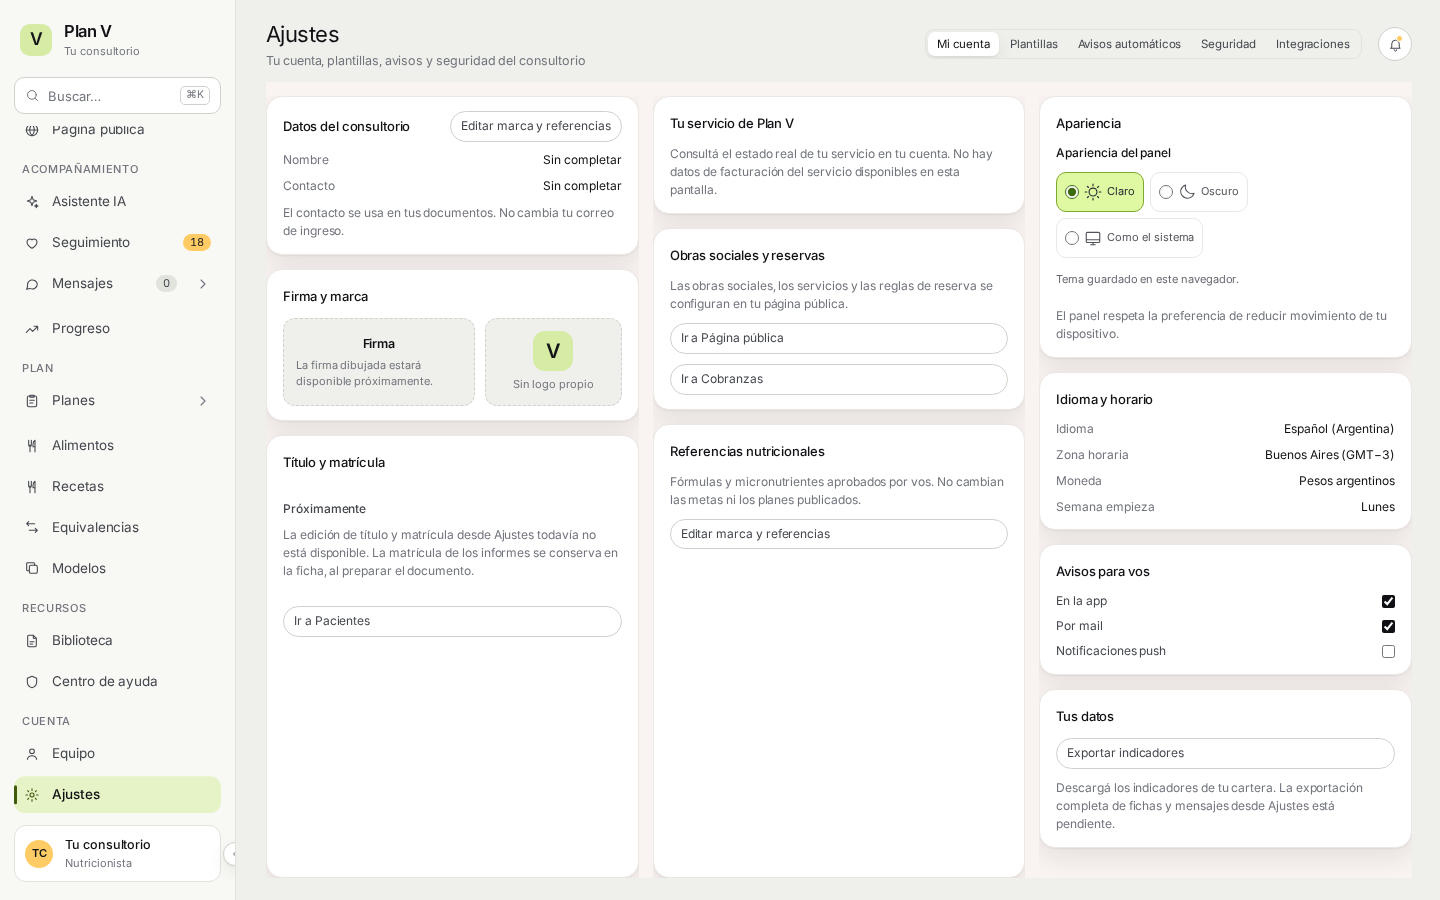
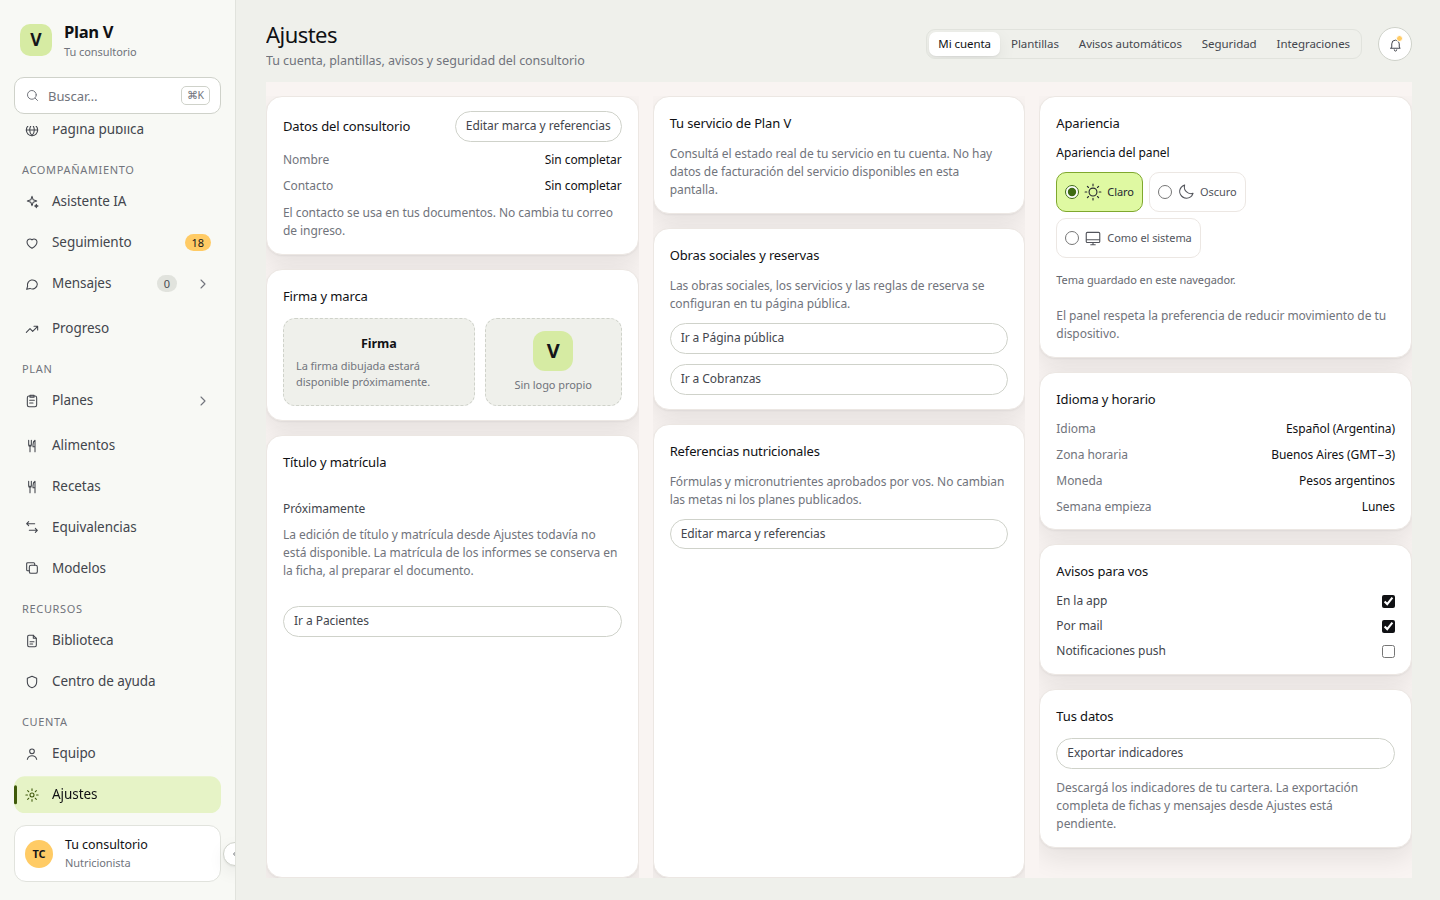
docs(equipo-ajustes): informe, capturas y bitácora del slice v29
Queda en borrador hasta el ok visual. Sin merge y sin migración.

diff --git a/docs/panel-nutri-rediseno/equipo-ajustes-v29.md b/docs/panel-nutri-rediseno/equipo-ajustes-v29.md
@@ -1,0 +1,43 @@
+# Equipo y Ajustes v29
+
+[PR #192 en borrador](https://github.com/Facu42/plan-v/pull/192). Código `0649e18`. Rama `cursor/equipo-ajustes-v29-70bc`, desde el avance de Codex en `work/equipo-ajustes-v29` (`4e52a34`) sobre main `62a8e48` (#191). **Sin merge, sin publicación y sin migraciones.**
+
+Equipo y Ajustes usan el armazón que ya está en main, la letra Inter y los temas claro y oscuro. El menú dice Ajustes, no Configuración. Siguen andando `/crm/equipo`, `/crm/ajustes` y los enlaces anteriores `?modulo=equipo` y `?modulo=configuracion`.
+
+## Qué se ve
+
+Equipo: título con la cantidad real de personas, pestañas Integrantes, Permisos y Registro de accesos, e Invitar a alguien. La tabla muestra persona, rol, pacientes que ve, último ingreso, dos pasos y estado. En el escritorio las seis columnas entran en la tarjeta. En el celular la tabla se desplaza para el costado, sin agrandar la página.
+
+Los integrantes salen de los consultorios, la recepción y las profesionales que ya devuelve la API. Último ingreso y dos pasos dicen «Sin información»: esa API no los trae. Invitar a recepción prepara el código real y aclara que no se manda un mail. Invitar a una nutricionista usa la invitación por correo que ya existía. Contador no se puede invitar. Quitar el acceso de recepción usa la revocación que ya existía. Pausar, reenviar y cerrar sesiones no se simulan.
+
+Ajustes: cinco pestañas (Mi cuenta, Plantillas, Avisos automáticos, Seguridad e Integraciones). Mi cuenta muestra el nombre y el contacto reales del consultorio, el tema y los avisos de la profesional. Google Calendar y Mercado Pago muestran el estado real de la conexión. No hay plan «Fundadora», ni «48 pacientes», ni cifras del boceto.
+
+## Qué queda vacío o en «Próximamente»
+
+- Permisos por módulo y registro de accesos (fichas, cambios e ingresos). Es el paquete C. La matriz se ve deshabilitada y no guarda nada.
+- Actividad del equipo, sesiones, historial de ingresos y respaldos.
+- Plantillas y certificados. No hay tablas ni alta.
+- Avisos automáticos por evento y reglas de regreso. Las preferencias de la profesional sí se guardan.
+- Mail con Brevo. El texto dice que se activa cuando se conecte; la conexión no está.
+- Firma dibujada, título y matrícula editables desde Ajustes, y la exportación completa de fichas.
+- Dos pasos del equipo. El estado de la cuenta se consulta; en el demo dice que no está disponible. No se prende ni se apaga desde esta pantalla.
+
+## Evidencia
+
+- [Capturas 1440 y 390, claro y oscuro](../screenshots/equipo-ajustes/): Integrantes, Permisos, Mi cuenta y Seguridad.
+- Suite con Node 22 y `npm test -- --maxWorkers=2`: **3.403 aprobadas y dos omitidas, 541 archivos** (183 s).
+- Tipos (`npm run check`), compilación, secretos y `panel:v29:check` en verde. La compilación conserva el aviso de bundles grandes.
+- `panel:contrato:v29`: **en verde**, claro y oscuro, para armazón, Seguimiento, Progreso, Asistente, Alimentos, Biblioteca y Planes. Ese contrato no mide Equipo ni Ajustes. Esas dos pantallas las cubre el recorrido de abajo.
+- Recorrido de punta a punta del slice: **4 aprobados** (25 s). Pestañas, invitación con código y con error, vacío sin consultorio, recepción que no consulta organizaciones, alias de Configuración, preferencias reales, enlaces, Inter, y sin desborde a 1440 y 390 en claro y oscuro.
+- Prueba de fuego: sacar una letra del encabezado «Dos pasos» hizo fallar la prueba de Equipo. Se restauró el texto y la prueba volvió a verde.
+
+## Regression Guard · paso 10
+
+- **Flujos críticos:** menú Equipo/Ajustes y enlaces anteriores, pestañas, invitación de recepción (éxito y error), preferencias de avisos de la profesional, tema claro/oscuro y anchos 1440/390 cubiertos. ✅ La revocación de recepción reutiliza la API que ya existía; este slice no le agrega un recorrido propio. ⚠
+- **Regresiones cubiertas:** el menú plegado nombra Ajustes y Equipo. Equipo ya no aparece como pantalla pendiente. Las columnas Dos pasos y Estado no se pueden sacar sin que falle la prueba.
+- **Contratos:** rutas permitidas solo para la profesional, selección del menú con el alias `configuracion`, invitación `POST` de recepción e invitación profesional por correo, preferencias `audience=pro`, marca nutricional y conexiones de agenda. Sin campos nuevos ni cambio de esquema.
+- **Áreas frágiles:** el encabezado del armazón comparte las pestañas. Un cambio ahí se nota en el título o en el botón Invitar. Las invitaciones dependen de que la cuenta sea dueña del consultorio; si no lo es, el botón queda deshabilitado y se dice por qué.
+- **Migraciones:** no hay. No se tocó la base de producción.
+- **Fire test:** detectado y restaurado. ✅
+- **Automatizaciones:** el recorrido regenera las 16 capturas y comprueba Inter, el ancho de la página y que no se inventen personas antes de cargar. No hace falta una variable nueva ni un paso manual de publicación.
+- **Veredicto: HOLD** hasta el ok visual de Facundo. El PR queda en borrador.

diff --git a/docs/coordinacion-agentes.md b/docs/coordinacion-agentes.md
@@ -34,6 +34,7 @@ visto bueno de Facundo.
 
 | Carril | Dueño | Dónde vive | Estado |
 |---|---|---|---|
+| Equipo y Ajustes v29 | Cursor, sobre el avance de Codex (se cortó sin cuota) | `cursor/equipo-ajustes-v29-70bc`, [PR #192](https://github.com/Facu42/plan-v/pull/192) | Pantallas del boceto con datos reales donde hay API y «Próximamente» en permisos, registro, plantillas y Brevo. 3.403 pruebas aprobadas, dos omitidas y cuatro e2e. [Informe y paso 10](panel-nutri-rediseno/equipo-ajustes-v29.md). HOLD por ok visual. Sin producción, migración ni merge |
 | Centro de ayuda v29 | Codex, autorizado por Facundo el 26/10 | `work/centro-ayuda-v29`, [PR #191](https://github.com/Facu42/plan-v/pull/191) | Implementado: UI, guías, FAQ y pedido local; 3.399 pruebas aprobadas, dos omitidas y tres e2e. [Informe y paso 10](panel-nutri-rediseno/centro-ayuda-v29.md). HOLD por ok visual y contrato general detenido en Asistente. Sin producción ni merge |
 | Planes v29 parte 3f: mail, programar e impreso | Codex, autorizado por Facundo el 26/10 | `work/planes-parte-3f-mail-programar-impreso`, [PR #190](https://github.com/Facu42/plan-v/pull/190) | Implementado; corrección visual del diálogo registrada en [informe](panel-nutri-rediseno/planes-p3f-fix-left.md); 3.396 pruebas aprobadas y dos omitidas. Mail con enlace autenticado e idempotencia, copia impresa y entrega horaria al consultar. [Informe y paso 10](panel-nutri-rediseno/planes-parte-3f-mail-programar-impreso.md). Migración solo en base descartable; sin producción ni merge |
 | Planes v29 parte 3d: alcance y deshacer IA | Codex autorizado por Facundo el 26/10; cerrado por Claude el 26/10 (Codex se cortó sin commit por cuota) | `work/planes-parte-3d-scope-deshacer`, [PR #188](https://github.com/Facu42/plan-v/pull/188), [informe](panel-nutri-rediseno/planes-parte-3d-scope-deshacer.md) | Scope día/comida/todo plan, Deshacer de la última aplicación IA e historial del cajón implementados. 3.369 pruebas, 3.365 aprobadas, 2 omitidas, 2 fallas ajenas al diff (Node 20 sin WebSocket nativo). e2e y PostgreSQL del slice aislados en verde. Diff visual de 1 px ajeno a 3d, documentado. Sin producción ni merge |
@@ -108,6 +109,8 @@ prueba gratis, presupuesto de IA en producción, proveedor de correo cuando se u
 del piloto, entidad legal.
 
 ## 5. Bitácora de traspaso (la más nueva arriba)
+
+- **27/10 · Cursor · Equipo y Ajustes v29** · Continuación del avance de Codex en `4e52a34`. Rama `cursor/equipo-ajustes-v29-70bc`, código `0649e18`, base `62a8e48`. Equipo (Integrantes, Permisos, Registro) y Ajustes (cinco pestañas, menú «Ajustes»). Invitaciones, marca, tema, avisos de la profesional y conexiones usan lo que ya existía. Permisos, registro de accesos, plantillas, Brevo y respaldos quedan en «Próximamente», sin números del boceto. 3.403 pruebas aprobadas, dos omitidas, cuatro e2e y contrato v29 del armazón en verde. [Informe y paso 10](panel-nutri-rediseno/equipo-ajustes-v29.md). [PR #192 en borrador](https://github.com/Facu42/plan-v/pull/192). Sin merge, sin publicación y sin migración.
 
 - **26/10 · Codex · Centro de ayuda v29** · Rama `work/centro-ayuda-v29`, base `81315b3`. Ruta `/crm/ayuda` y enlace anterior, temas/búsqueda/guías, FAQ y pedido local explícitamente sin envío. Inter y shell existente, 1440/390 claro/oscuro. 3.399 pruebas aprobadas, dos omitidas, 12 focales y tres e2e. [Informe, capturas y paso 10](panel-nutri-rediseno/centro-ayuda-v29.md). [PR #191 en borrador](https://github.com/Facu42/plan-v/pull/191), sin merge ni producción; HOLD hasta ok visual de Facu y revisión del contrato general detenido en Asistente.
 

diff --git a/docs/traspaso-estado-proyecto.md b/docs/traspaso-estado-proyecto.md
@@ -1,4 +1,6 @@
-# Traspaso del proyecto (actualización vigente: 2026-10-23)
+# Traspaso del proyecto (actualización vigente: 2026-10-27)
+
+27/10 · Cursor · Equipo y Ajustes del panel copian el boceto v29. El menú dice Ajustes. Lo que no tiene backend queda en «Próximamente», sin cifras inventadas. [Informe y paso 10](panel-nutri-rediseno/equipo-ajustes-v29.md). [PR #192](https://github.com/Facu42/plan-v/pull/192) en borrador, sin juntar.
 
 26/10 · Codex · Planes parte 3e: Formato/Medidas/Incluir orientan la generación y la lectura existente de trabajos trae el consumo y límite real de la bolsa compartida. Si falta registro se explica, sin gasto ni tope inventados. Dictar/Adjuntar siguen Próximamente. [Informe y paso 10](panel-nutri-rediseno/planes-parte-3e-armar-ia.md). Rama `work/planes-parte-3e-armar-ia`, sin parte 3d, producción ni merge.
 
